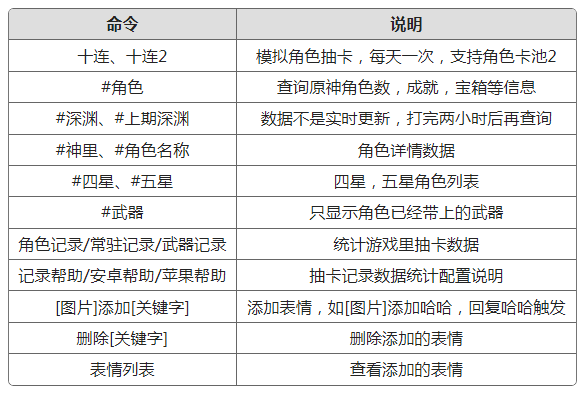
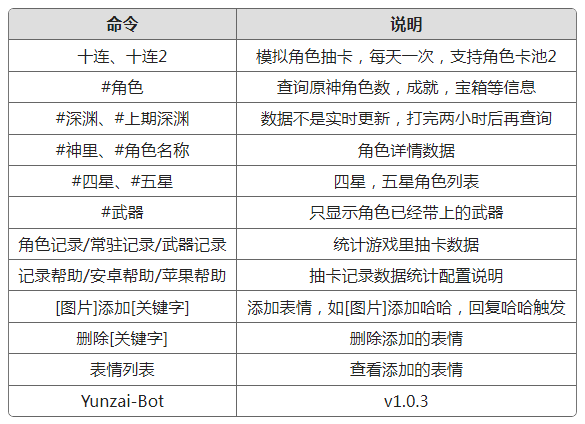
bug

Changed region(s): [[0.0, 0.0, 0.9846, 1.0]]

diff --git a/config/config_default.js b/config/config_default.js
@@ -21,7 +21,9 @@ let config = {
   //米游社cookies，支持多个
   //访问米游社原神社区(https://bbs.mihoyo.com/ys/)，登录后账户点击 F12 ，
   //选中 Console 或控制台，点击控制台粘贴这一句
+  //
   // document.cookie.match(/ltoken[^;]+;[^;]+;/)[0] ，回车即可获取
+  //
   //例如'ltoken=***;ltuid=***;'
   //cookie逻辑：一个号一天只能查30个uid（包括查询失败的），在没超过30的时候，之前查过的uid可以重复查询
   //所有项目限制一个cookie只能查27个，避免超出限制，查询过的可以重复查
@@ -41,7 +43,7 @@ let config = {
       mysDayLimit: 20,   //每天查询次数
       mysUidLimit: 5,    //每天查询uid个数
 
-      disable:[],        //禁用功能 'gacha','mysInfo',
+      disable:[],        //禁用功能 'gacha','mysInfo','gachaLog','face','other'
     },
 
     //每个群的单独配置(用于覆盖通用配置)

diff --git a/lib/app/gachaLog.js b/lib/app/gachaLog.js
@@ -82,7 +82,7 @@ async function logApi(param) {
 }
 
 async function getLog(e) {
-  let msg = e.msg.replace(/#|抽卡|记录|祈愿/, "");
+  let msg = e.msg.replace(/#|抽卡|记录|祈愿/g, "");
 
   let type = 301;
   let typeName = "角色";
@@ -257,6 +257,13 @@ async function getLog(e) {
       ],
     ];
   }
+
+  let hasMore = false;
+  if(e.isGroup && data.fiveArr.length>24){
+    data.fiveArr = data.fiveArr.slice(0, 24);
+    hasMore = true;
+  }
+
   let base64 = await render("genshin", "gachaLog", {
     save_id: mainUid,
     uid: mainUid,
@@ -266,6 +273,7 @@ async function getLog(e) {
     typeName,
     lastTime: data.lastTime,
     fiveArr: data.fiveArr,
+    hasMore,
   });
 
   if (base64) {

diff --git a/config/genshin/gacha.js b/config/genshin/gacha.js
@@ -22,7 +22,7 @@ let gachaConfig = {
       up4: ["五郎", "芭芭拉", "菲谢尔"],
       //up的五星角色
       up5: ["荒泷一斗"],
-      up5: ["荒泷一斗"],
+      up5_2: ["荒泷一斗"],
       endTime: "2021-12-29 04:00:00",
     },
   ],

diff --git a/resources/genshin/gachaLog/gachaLog.html b/resources/genshin/gachaLog/gachaLog.html
@@ -42,6 +42,7 @@
                                 {{/if}}
                             </div>
                         {{/each}}
+                        {{if hasMore }}...{{/if}}
                     </div>
                 </div>
             </div>

diff --git a/resources/help/help.html b/resources/help/help.html
@@ -106,6 +106,10 @@
           <td>表情列表</td>
           <td>查看添加的表情</td>
         </tr>
+        <tr>
+          <td>Yunzai-Bot</td>
+          <td>v1.0.3 </td>
+        </tr>
       </table>
     </div>
   </body>

diff --git a/resources/genshin/weapon/weapon.css b/resources/genshin/weapon/weapon.css
@@ -1,6 +1,6 @@
 @font-face {
     font-family: 'tttgbnumber';
-    src: url("../font/tttgbnumber.ttf");
+    src: url("../../font/tttgbnumber.ttf");
     font-weight: normal;
     font-style: normal;
 }
